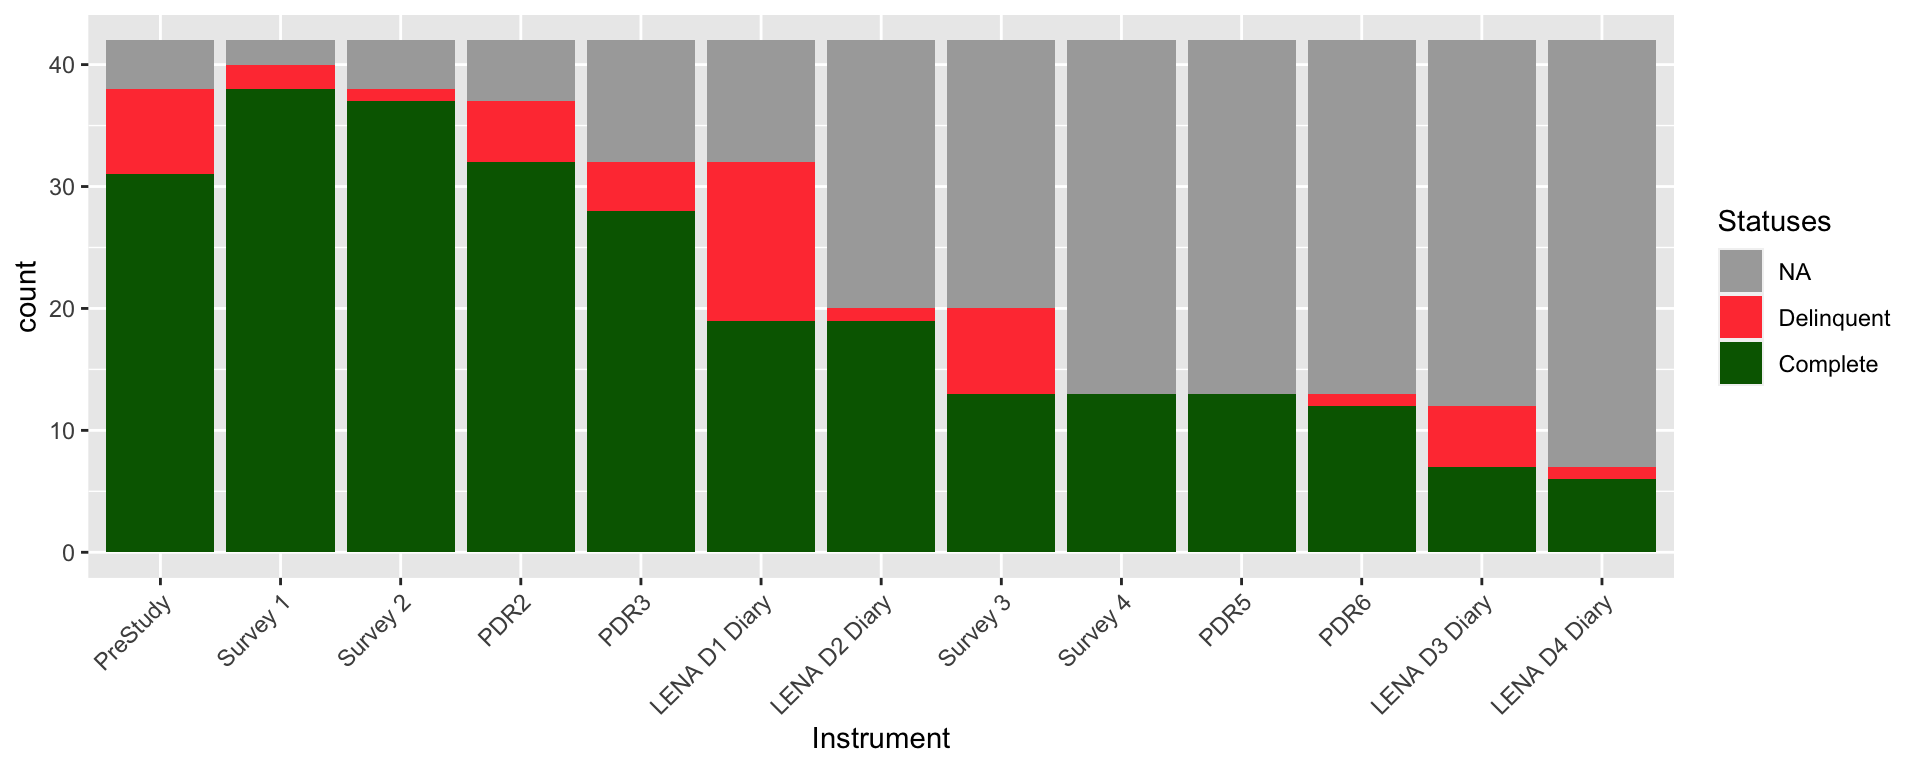
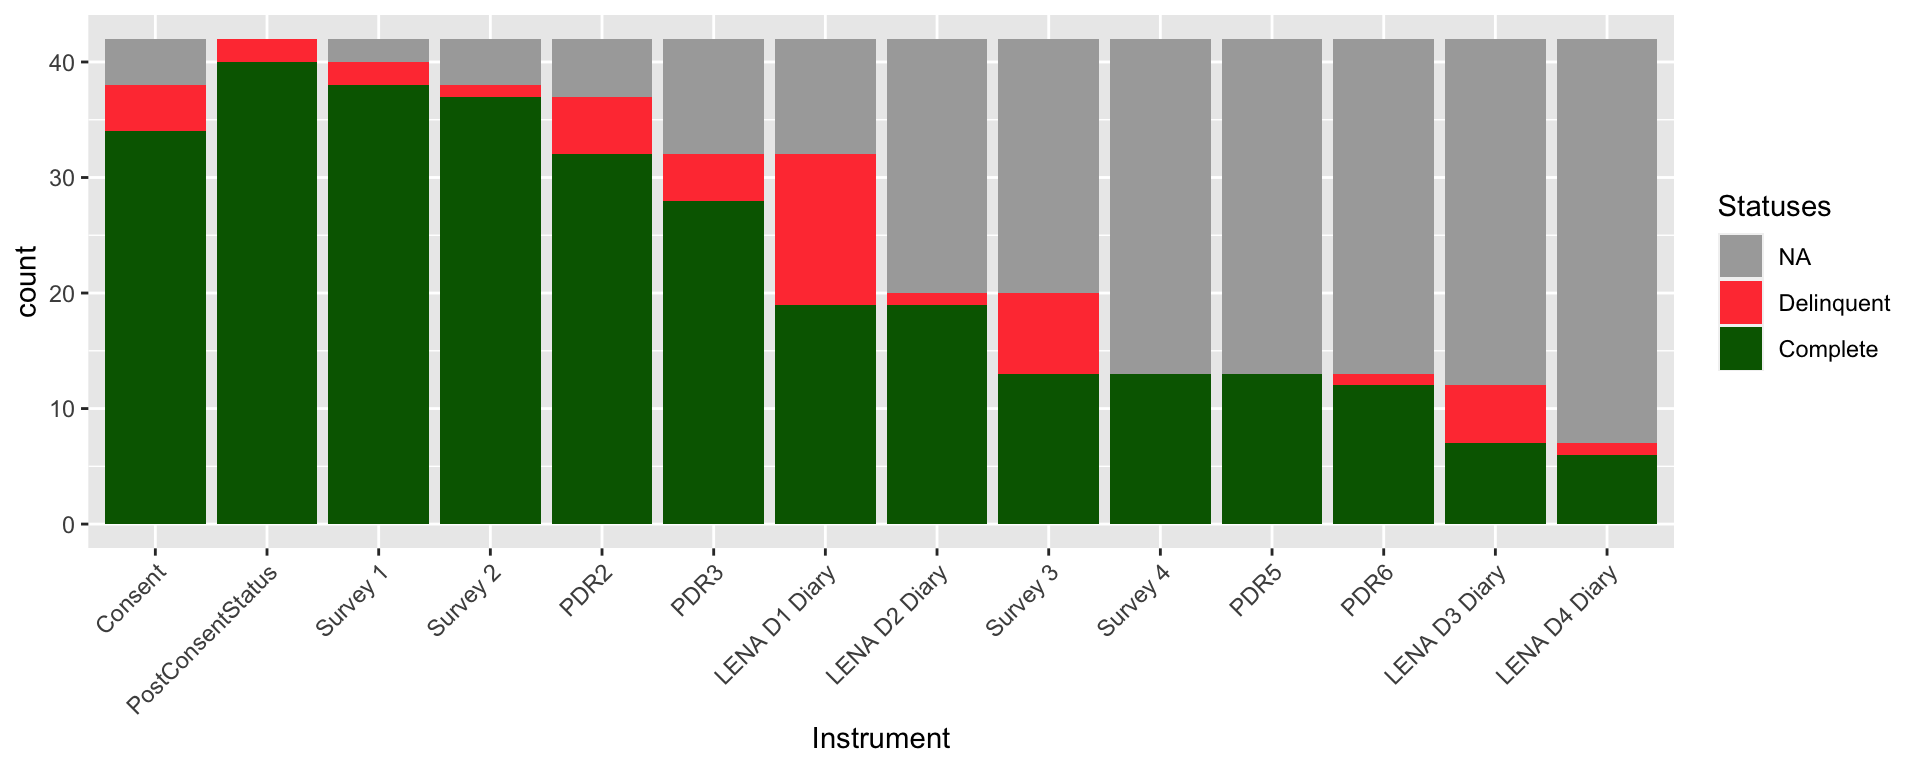
Add post-consent

diff --git a/_site/reports.html b/_site/reports.html
@@ -399,7 +399,7 @@ $(document).ready(function () {
 </div>
 <center>
 <div id="htmlwidget-2e17466358a46d139971" style="width:960px;height:384px;" class="plotly html-widget"></div>
-<script type="application/json" data-for="htmlwidget-2e17466358a46d139971">{"x":{"data":[{"x":[1577836800,1594210295,1595855440,1595947129,1596636699,1597147658,1597158465,1597402867,1597741838,1598436608,1598538979,1598541299,1598955066,1599570320,1600250194,1600255992,1600355481,1600863340,1601302221,1601566658,1602239005,1603368728,1603379955,1603977413,1604491899,1604751373,1605089156,1605170346,1605179257,1605721538,1605872792,1607016682,1607085091,1607472000,1607644800,1607687486,1609891200,1609897301,1611187200,1611187200,1611187200,1609897301,1609891200,1607687486,1607644800,1607472000,1607085091,1607016682,1605872792,1605721538,1605179257,1605170346,1605089156,1604751373,1604491899,1603977413,1603379955,1603368728,1602239005,1601566658,1601302221,1600863340,1600355481,1600255992,1600250194,1599570320,1598955066,1598541299,1598538979,1598436608,1597741838,1597402867,1597158465,1597147658,1596636699,1595947129,1595855440,1594210295,1577836800,1577836800],"y":[0,0,0,0,0,0,0,0,0,0,0,0,0,0,0,0,0,0,0,0,0,0,0,0,0,0,0,0,0,0,0,0,0,0,0,0,0,0,0,0,42,41,40,39,38,37,36,35,34,33,32,31,30,29,28,27,26,25,24,23,22,21,20,19,18,17,16,15,14,13,12,11,10,9,8,7,6,5,4,0],"text":["InformedConsent: 2020-01-01 08:00:00<br />Cumulative:  4","InformedConsent: 2020-07-08 19:11:35<br />Cumulative:  5","InformedConsent: 2020-07-27 20:10:40<br />Cumulative:  6","InformedConsent: 2020-07-28 21:38:49<br />Cumulative:  7","InformedConsent: 2020-08-05 21:11:39<br />Cumulative:  8","InformedConsent: 2020-08-11 19:07:38<br />Cumulative:  9","InformedConsent: 2020-08-11 22:07:45<br />Cumulative: 10","InformedConsent: 2020-08-14 18:01:07<br />Cumulative: 11","InformedConsent: 2020-08-18 16:10:38<br />Cumulative: 12","InformedConsent: 2020-08-26 17:10:08<br />Cumulative: 13","InformedConsent: 2020-08-27 21:36:19<br />Cumulative: 14","InformedConsent: 2020-08-27 22:14:59<br />Cumulative: 15","InformedConsent: 2020-09-01 17:11:06<br />Cumulative: 16","InformedConsent: 2020-09-08 20:05:20<br />Cumulative: 17","InformedConsent: 2020-09-16 16:56:34<br />Cumulative: 18","InformedConsent: 2020-09-16 18:33:12<br />Cumulative: 19","InformedConsent: 2020-09-17 22:11:21<br />Cumulative: 20","InformedConsent: 2020-09-23 19:15:40<br />Cumulative: 21","InformedConsent: 2020-09-28 21:10:21<br />Cumulative: 22","InformedConsent: 2020-10-01 22:37:38<br />Cumulative: 23","InformedConsent: 2020-10-09 17:23:25<br />Cumulative: 24","InformedConsent: 2020-10-22 19:12:08<br />Cumulative: 25","InformedConsent: 2020-10-22 22:19:15<br />Cumulative: 26","InformedConsent: 2020-10-29 20:16:53<br />Cumulative: 27","InformedConsent: 2020-11-04 20:11:39<br />Cumulative: 28","InformedConsent: 2020-11-07 20:16:13<br />Cumulative: 29","InformedConsent: 2020-11-11 18:05:56<br />Cumulative: 30","InformedConsent: 2020-11-12 16:39:06<br />Cumulative: 31","InformedConsent: 2020-11-12 19:07:37<br />Cumulative: 32","InformedConsent: 2020-11-19 01:45:38<br />Cumulative: 33","InformedConsent: 2020-11-20 19:46:32<br />Cumulative: 34","InformedConsent: 2020-12-04 01:31:22<br />Cumulative: 35","InformedConsent: 2020-12-04 20:31:31<br />Cumulative: 36","InformedConsent: 2020-12-09 08:00:00<br />Cumulative: 37","InformedConsent: 2020-12-11 08:00:00<br />Cumulative: 38","InformedConsent: 2020-12-11 19:51:26<br />Cumulative: 39","InformedConsent: 2021-01-06 08:00:00<br />Cumulative: 40","InformedConsent: 2021-01-06 09:41:41<br />Cumulative: 41","InformedConsent: 2021-01-21 08:00:00<br />Cumulative: 42","InformedConsent: 2021-01-21 08:00:00<br />Cumulative: 42","InformedConsent: 2021-01-21 08:00:00<br />Cumulative: 42","InformedConsent: 2021-01-06 09:41:41<br />Cumulative: 41","InformedConsent: 2021-01-06 08:00:00<br />Cumulative: 40","InformedConsent: 2020-12-11 19:51:26<br />Cumulative: 39","InformedConsent: 2020-12-11 08:00:00<br />Cumulative: 38","InformedConsent: 2020-12-09 08:00:00<br />Cumulative: 37","InformedConsent: 2020-12-04 20:31:31<br />Cumulative: 36","InformedConsent: 2020-12-04 01:31:22<br />Cumulative: 35","InformedConsent: 2020-11-20 19:46:32<br />Cumulative: 34","InformedConsent: 2020-11-19 01:45:38<br />Cumulative: 33","InformedConsent: 2020-11-12 19:07:37<br />Cumulative: 32","InformedConsent: 2020-11-12 16:39:06<br />Cumulative: 31","InformedConsent: 2020-11-11 18:05:56<br />Cumulative: 30","InformedConsent: 2020-11-07 20:16:13<br />Cumulative: 29","InformedConsent: 2020-11-04 20:11:39<br />Cumulative: 28","InformedConsent: 2020-10-29 20:16:53<br />Cumulative: 27","InformedConsent: 2020-10-22 22:19:15<br />Cumulative: 26","InformedConsent: 2020-10-22 19:12:08<br />Cumulative: 25","InformedConsent: 2020-10-09 17:23:25<br />Cumulative: 24","InformedConsent: 2020-10-01 22:37:38<br />Cumulative: 23","InformedConsent: 2020-09-28 21:10:21<br />Cumulative: 22","InformedConsent: 2020-09-23 19:15:40<br />Cumulative: 21","InformedConsent: 2020-09-17 22:11:21<br />Cumulative: 20","InformedConsent: 2020-09-16 18:33:12<br />Cumulative: 19","InformedConsent: 2020-09-16 16:56:34<br />Cumulative: 18","InformedConsent: 2020-09-08 20:05:20<br />Cumulative: 17","InformedConsent: 2020-09-01 17:11:06<br />Cumulative: 16","InformedConsent: 2020-08-27 22:14:59<br />Cumulative: 15","InformedConsent: 2020-08-27 21:36:19<br />Cumulative: 14","InformedConsent: 2020-08-26 17:10:08<br />Cumulative: 13","InformedConsent: 2020-08-18 16:10:38<br />Cumulative: 12","InformedConsent: 2020-08-14 18:01:07<br />Cumulative: 11","InformedConsent: 2020-08-11 22:07:45<br />Cumulative: 10","InformedConsent: 2020-08-11 19:07:38<br />Cumulative:  9","InformedConsent: 2020-08-05 21:11:39<br />Cumulative:  8","InformedConsent: 2020-07-28 21:38:49<br />Cumulative:  7","InformedConsent: 2020-07-27 20:10:40<br />Cumulative:  6","InformedConsent: 2020-07-08 19:11:35<br />Cumulative:  5","InformedConsent: 2020-01-01 08:00:00<br />Cumulative:  4","InformedConsent: 2020-01-01 08:00:00<br />Cumulative:  4"],"type":"scatter","mode":"lines","line":{"width":1.88976377952756,"color":"transparent","dash":"solid"},"fill":"toself","fillcolor":"rgba(105,179,162,0.5)","hoveron":"points","showlegend":false,"xaxis":"x","yaxis":"y","hoverinfo":"text","frame":null},{"x":[1577836800,1594210295,1595855440,1595947129,1596636699,1597147658,1597158465,1597402867,1597741838,1598436608,1598538979,1598541299,1598955066,1599570320,1600250194,1600255992,1600355481,1600863340,1601302221,1601566658,1602239005,1603368728,1603379955,1603977413,1604491899,1604751373,1605089156,1605170346,1605179257,1605721538,1605872792,1607016682,1607085091,1607472000,1607644800,1607687486,1609891200,1609897301,1611187200,null],"y":[4,5,6,7,8,9,10,11,12,13,14,15,16,17,18,19,20,21,22,23,24,25,26,27,28,29,30,31,32,33,34,35,36,37,38,39,40,41,42,49],"text":["InformedConsent: 2020-01-01 00:00:00<br />Cumulative:  4","InformedConsent: 2020-07-08 12:11:35<br />Cumulative:  5","InformedConsent: 2020-07-27 13:10:40<br />Cumulative:  6","InformedConsent: 2020-07-28 14:38:49<br />Cumulative:  7","InformedConsent: 2020-08-05 14:11:39<br />Cumulative:  8","InformedConsent: 2020-08-11 12:07:38<br />Cumulative:  9","InformedConsent: 2020-08-11 15:07:45<br />Cumulative: 10","InformedConsent: 2020-08-14 11:01:07<br />Cumulative: 11","InformedConsent: 2020-08-18 09:10:38<br />Cumulative: 12","InformedConsent: 2020-08-26 10:10:08<br />Cumulative: 13","InformedConsent: 2020-08-27 14:36:19<br />Cumulative: 14","InformedConsent: 2020-08-27 15:14:59<br />Cumulative: 15","InformedConsent: 2020-09-01 10:11:06<br />Cumulative: 16","InformedConsent: 2020-09-08 13:05:20<br />Cumulative: 17","InformedConsent: 2020-09-16 09:56:34<br />Cumulative: 18","InformedConsent: 2020-09-16 11:33:12<br />Cumulative: 19","InformedConsent: 2020-09-17 15:11:21<br />Cumulative: 20","InformedConsent: 2020-09-23 12:15:40<br />Cumulative: 21","InformedConsent: 2020-09-28 14:10:21<br />Cumulative: 22","InformedConsent: 2020-10-01 15:37:38<br />Cumulative: 23","InformedConsent: 2020-10-09 10:23:25<br />Cumulative: 24","InformedConsent: 2020-10-22 12:12:08<br />Cumulative: 25","InformedConsent: 2020-10-22 15:19:15<br />Cumulative: 26","InformedConsent: 2020-10-29 13:16:53<br />Cumulative: 27","InformedConsent: 2020-11-04 12:11:39<br />Cumulative: 28","InformedConsent: 2020-11-07 12:16:13<br />Cumulative: 29","InformedConsent: 2020-11-11 10:05:56<br />Cumulative: 30","InformedConsent: 2020-11-12 08:39:06<br />Cumulative: 31","InformedConsent: 2020-11-12 11:07:37<br />Cumulative: 32","InformedConsent: 2020-11-18 17:45:38<br />Cumulative: 33","InformedConsent: 2020-11-20 11:46:32<br />Cumulative: 34","InformedConsent: 2020-12-03 17:31:22<br />Cumulative: 35","InformedConsent: 2020-12-04 12:31:31<br />Cumulative: 36","InformedConsent: 2020-12-09 00:00:00<br />Cumulative: 37","InformedConsent: 2020-12-11 00:00:00<br />Cumulative: 38","InformedConsent: 2020-12-11 11:51:26<br />Cumulative: 39","InformedConsent: 2021-01-06 00:00:00<br />Cumulative: 40","InformedConsent: 2021-01-06 01:41:41<br />Cumulative: 41","InformedConsent: 2021-01-21 00:00:00<br />Cumulative: 42","InformedConsent: NA<br />Cumulative: 49"],"type":"scatter","mode":"lines","line":{"width":1.88976377952756,"color":"rgba(105,179,162,1)","dash":"solid"},"hoveron":"points","showlegend":false,"xaxis":"x","yaxis":"y","hoverinfo":"text","frame":null}],"layout":{"margin":{"t":65.813200498132,"r":39.8505603985056,"b":80.8634288086343,"l":70.9007887090079},"font":{"color":"rgba(0,0,0,1)","family":"Arial Narrow","size":15.2760481527605},"xaxis":{"domain":[0,1],"automargin":true,"type":"linear","autorange":false,"range":[1576169280,1612854720],"tickmode":"array","ticktext":["Jan 2020","Apr 2020","Jul 2020","Oct 2020","Jan 2021"],"tickvals":[1577836800,1585699200,1593561600,1601510400,1609459200],"categoryorder":"array","categoryarray":["Jan 2020","Apr 2020","Jul 2020","Oct 2020","Jan 2021"],"nticks":null,"ticks":"","tickcolor":null,"ticklen":3.81901203819012,"tickwidth":0,"showticklabels":true,"tickfont":{"color":"rgba(77,77,77,1)","family":"Arial Narrow","size":15.2760481527605},"tickangle":-0,"showline":false,"linecolor":null,"linewidth":0,"showgrid":true,"gridcolor":"rgba(204,204,204,1)","gridwidth":0.265670402656704,"zeroline":false,"anchor":"y","title":{"text":"Time","font":{"color":"rgba(0,0,0,1)","family":"Arial Narrow","size":11.9551681195517}},"hoverformat":".2f"},"yaxis":{"domain":[0,1],"automargin":true,"type":"linear","autorange":false,"range":[-2.45,51.45],"tickmode":"array","ticktext":["0","10","20","30","40","50"],"tickvals":[0,10,20,30,40,50],"categoryorder":"array","categoryarray":["0","10","20","30","40","50"],"nticks":null,"ticks":"","tickcolor":null,"ticklen":3.81901203819012,"tickwidth":0,"showticklabels":true,"tickfont":{"color":"rgba(77,77,77,1)","family":"Arial Narrow","size":15.2760481527605},"tickangle":-0,"showline":false,"linecolor":null,"linewidth":0,"showgrid":true,"gridcolor":"rgba(204,204,204,1)","gridwidth":0.265670402656704,"zeroline":false,"anchor":"x","title":{"text":"Dyad Count","font":{"color":"rgba(0,0,0,1)","family":"Arial Narrow","size":11.9551681195517}},"hoverformat":".2f"},"shapes":[{"type":"rect","fillcolor":null,"line":{"color":null,"width":0,"linetype":[]},"yref":"paper","xref":"paper","x0":0,"x1":1,"y0":0,"y1":1}],"showlegend":false,"legend":{"bgcolor":null,"bordercolor":null,"borderwidth":0,"font":{"color":"rgba(0,0,0,1)","family":"Arial Narrow","size":12.2208385222084}},"hovermode":"closest","barmode":"relative"},"config":{"doubleClick":"reset","showSendToCloud":false},"source":"A","attrs":{"44717c71c902":{"x":{},"y":{},"type":"scatter"},"44711243e222":{"x":{},"y":{}}},"cur_data":"44717c71c902","visdat":{"44717c71c902":["function (y) ","x"],"44711243e222":["function (y) ","x"]},"highlight":{"on":"plotly_click","persistent":false,"dynamic":false,"selectize":false,"opacityDim":0.2,"selected":{"opacity":1},"debounce":0},"shinyEvents":["plotly_hover","plotly_click","plotly_selected","plotly_relayout","plotly_brushed","plotly_brushing","plotly_clickannotation","plotly_doubleclick","plotly_deselect","plotly_afterplot","plotly_sunburstclick"],"base_url":"https://plot.ly"},"evals":[],"jsHooks":[]}</script><img src="reports_files/figure-html/SEAL%20Conditions%20Plot-2.png" width="960" />
+<script type="application/json" data-for="htmlwidget-2e17466358a46d139971">{"x":{"data":[{"x":[1577836800,1594210295,1595855440,1595947129,1596636699,1597147658,1597158465,1597402867,1597741838,1598436608,1598538979,1598541299,1598955066,1599570320,1600250194,1600255992,1600355481,1600863340,1601302221,1601566658,1602239005,1603368728,1603379955,1603977413,1604491899,1604751373,1605089156,1605170346,1605179257,1605721538,1605872792,1607016682,1607085091,1607472000,1607644800,1607687486,1609891200,1609897301,1611187200,1611187200,1611187200,1609897301,1609891200,1607687486,1607644800,1607472000,1607085091,1607016682,1605872792,1605721538,1605179257,1605170346,1605089156,1604751373,1604491899,1603977413,1603379955,1603368728,1602239005,1601566658,1601302221,1600863340,1600355481,1600255992,1600250194,1599570320,1598955066,1598541299,1598538979,1598436608,1597741838,1597402867,1597158465,1597147658,1596636699,1595947129,1595855440,1594210295,1577836800,1577836800],"y":[0,0,0,0,0,0,0,0,0,0,0,0,0,0,0,0,0,0,0,0,0,0,0,0,0,0,0,0,0,0,0,0,0,0,0,0,0,0,0,0,42,41,40,39,38,37,36,35,34,33,32,31,30,29,28,27,26,25,24,23,22,21,20,19,18,17,16,15,14,13,12,11,10,9,8,7,6,5,4,0],"text":["InformedConsent: 2020-01-01 08:00:00<br />Cumulative:  4","InformedConsent: 2020-07-08 19:11:35<br />Cumulative:  5","InformedConsent: 2020-07-27 20:10:40<br />Cumulative:  6","InformedConsent: 2020-07-28 21:38:49<br />Cumulative:  7","InformedConsent: 2020-08-05 21:11:39<br />Cumulative:  8","InformedConsent: 2020-08-11 19:07:38<br />Cumulative:  9","InformedConsent: 2020-08-11 22:07:45<br />Cumulative: 10","InformedConsent: 2020-08-14 18:01:07<br />Cumulative: 11","InformedConsent: 2020-08-18 16:10:38<br />Cumulative: 12","InformedConsent: 2020-08-26 17:10:08<br />Cumulative: 13","InformedConsent: 2020-08-27 21:36:19<br />Cumulative: 14","InformedConsent: 2020-08-27 22:14:59<br />Cumulative: 15","InformedConsent: 2020-09-01 17:11:06<br />Cumulative: 16","InformedConsent: 2020-09-08 20:05:20<br />Cumulative: 17","InformedConsent: 2020-09-16 16:56:34<br />Cumulative: 18","InformedConsent: 2020-09-16 18:33:12<br />Cumulative: 19","InformedConsent: 2020-09-17 22:11:21<br />Cumulative: 20","InformedConsent: 2020-09-23 19:15:40<br />Cumulative: 21","InformedConsent: 2020-09-28 21:10:21<br />Cumulative: 22","InformedConsent: 2020-10-01 22:37:38<br />Cumulative: 23","InformedConsent: 2020-10-09 17:23:25<br />Cumulative: 24","InformedConsent: 2020-10-22 19:12:08<br />Cumulative: 25","InformedConsent: 2020-10-22 22:19:15<br />Cumulative: 26","InformedConsent: 2020-10-29 20:16:53<br />Cumulative: 27","InformedConsent: 2020-11-04 20:11:39<br />Cumulative: 28","InformedConsent: 2020-11-07 20:16:13<br />Cumulative: 29","InformedConsent: 2020-11-11 18:05:56<br />Cumulative: 30","InformedConsent: 2020-11-12 16:39:06<br />Cumulative: 31","InformedConsent: 2020-11-12 19:07:37<br />Cumulative: 32","InformedConsent: 2020-11-19 01:45:38<br />Cumulative: 33","InformedConsent: 2020-11-20 19:46:32<br />Cumulative: 34","InformedConsent: 2020-12-04 01:31:22<br />Cumulative: 35","InformedConsent: 2020-12-04 20:31:31<br />Cumulative: 36","InformedConsent: 2020-12-09 08:00:00<br />Cumulative: 37","InformedConsent: 2020-12-11 08:00:00<br />Cumulative: 38","InformedConsent: 2020-12-11 19:51:26<br />Cumulative: 39","InformedConsent: 2021-01-06 08:00:00<br />Cumulative: 40","InformedConsent: 2021-01-06 09:41:41<br />Cumulative: 41","InformedConsent: 2021-01-21 08:00:00<br />Cumulative: 42","InformedConsent: 2021-01-21 08:00:00<br />Cumulative: 42","InformedConsent: 2021-01-21 08:00:00<br />Cumulative: 42","InformedConsent: 2021-01-06 09:41:41<br />Cumulative: 41","InformedConsent: 2021-01-06 08:00:00<br />Cumulative: 40","InformedConsent: 2020-12-11 19:51:26<br />Cumulative: 39","InformedConsent: 2020-12-11 08:00:00<br />Cumulative: 38","InformedConsent: 2020-12-09 08:00:00<br />Cumulative: 37","InformedConsent: 2020-12-04 20:31:31<br />Cumulative: 36","InformedConsent: 2020-12-04 01:31:22<br />Cumulative: 35","InformedConsent: 2020-11-20 19:46:32<br />Cumulative: 34","InformedConsent: 2020-11-19 01:45:38<br />Cumulative: 33","InformedConsent: 2020-11-12 19:07:37<br />Cumulative: 32","InformedConsent: 2020-11-12 16:39:06<br />Cumulative: 31","InformedConsent: 2020-11-11 18:05:56<br />Cumulative: 30","InformedConsent: 2020-11-07 20:16:13<br />Cumulative: 29","InformedConsent: 2020-11-04 20:11:39<br />Cumulative: 28","InformedConsent: 2020-10-29 20:16:53<br />Cumulative: 27","InformedConsent: 2020-10-22 22:19:15<br />Cumulative: 26","InformedConsent: 2020-10-22 19:12:08<br />Cumulative: 25","InformedConsent: 2020-10-09 17:23:25<br />Cumulative: 24","InformedConsent: 2020-10-01 22:37:38<br />Cumulative: 23","InformedConsent: 2020-09-28 21:10:21<br />Cumulative: 22","InformedConsent: 2020-09-23 19:15:40<br />Cumulative: 21","InformedConsent: 2020-09-17 22:11:21<br />Cumulative: 20","InformedConsent: 2020-09-16 18:33:12<br />Cumulative: 19","InformedConsent: 2020-09-16 16:56:34<br />Cumulative: 18","InformedConsent: 2020-09-08 20:05:20<br />Cumulative: 17","InformedConsent: 2020-09-01 17:11:06<br />Cumulative: 16","InformedConsent: 2020-08-27 22:14:59<br />Cumulative: 15","InformedConsent: 2020-08-27 21:36:19<br />Cumulative: 14","InformedConsent: 2020-08-26 17:10:08<br />Cumulative: 13","InformedConsent: 2020-08-18 16:10:38<br />Cumulative: 12","InformedConsent: 2020-08-14 18:01:07<br />Cumulative: 11","InformedConsent: 2020-08-11 22:07:45<br />Cumulative: 10","InformedConsent: 2020-08-11 19:07:38<br />Cumulative:  9","InformedConsent: 2020-08-05 21:11:39<br />Cumulative:  8","InformedConsent: 2020-07-28 21:38:49<br />Cumulative:  7","InformedConsent: 2020-07-27 20:10:40<br />Cumulative:  6","InformedConsent: 2020-07-08 19:11:35<br />Cumulative:  5","InformedConsent: 2020-01-01 08:00:00<br />Cumulative:  4","InformedConsent: 2020-01-01 08:00:00<br />Cumulative:  4"],"type":"scatter","mode":"lines","line":{"width":1.88976377952756,"color":"transparent","dash":"solid"},"fill":"toself","fillcolor":"rgba(105,179,162,0.5)","hoveron":"points","showlegend":false,"xaxis":"x","yaxis":"y","hoverinfo":"text","frame":null},{"x":[1577836800,1594210295,1595855440,1595947129,1596636699,1597147658,1597158465,1597402867,1597741838,1598436608,1598538979,1598541299,1598955066,1599570320,1600250194,1600255992,1600355481,1600863340,1601302221,1601566658,1602239005,1603368728,1603379955,1603977413,1604491899,1604751373,1605089156,1605170346,1605179257,1605721538,1605872792,1607016682,1607085091,1607472000,1607644800,1607687486,1609891200,1609897301,1611187200,null],"y":[4,5,6,7,8,9,10,11,12,13,14,15,16,17,18,19,20,21,22,23,24,25,26,27,28,29,30,31,32,33,34,35,36,37,38,39,40,41,42,49],"text":["InformedConsent: 2020-01-01 00:00:00<br />Cumulative:  4","InformedConsent: 2020-07-08 12:11:35<br />Cumulative:  5","InformedConsent: 2020-07-27 13:10:40<br />Cumulative:  6","InformedConsent: 2020-07-28 14:38:49<br />Cumulative:  7","InformedConsent: 2020-08-05 14:11:39<br />Cumulative:  8","InformedConsent: 2020-08-11 12:07:38<br />Cumulative:  9","InformedConsent: 2020-08-11 15:07:45<br />Cumulative: 10","InformedConsent: 2020-08-14 11:01:07<br />Cumulative: 11","InformedConsent: 2020-08-18 09:10:38<br />Cumulative: 12","InformedConsent: 2020-08-26 10:10:08<br />Cumulative: 13","InformedConsent: 2020-08-27 14:36:19<br />Cumulative: 14","InformedConsent: 2020-08-27 15:14:59<br />Cumulative: 15","InformedConsent: 2020-09-01 10:11:06<br />Cumulative: 16","InformedConsent: 2020-09-08 13:05:20<br />Cumulative: 17","InformedConsent: 2020-09-16 09:56:34<br />Cumulative: 18","InformedConsent: 2020-09-16 11:33:12<br />Cumulative: 19","InformedConsent: 2020-09-17 15:11:21<br />Cumulative: 20","InformedConsent: 2020-09-23 12:15:40<br />Cumulative: 21","InformedConsent: 2020-09-28 14:10:21<br />Cumulative: 22","InformedConsent: 2020-10-01 15:37:38<br />Cumulative: 23","InformedConsent: 2020-10-09 10:23:25<br />Cumulative: 24","InformedConsent: 2020-10-22 12:12:08<br />Cumulative: 25","InformedConsent: 2020-10-22 15:19:15<br />Cumulative: 26","InformedConsent: 2020-10-29 13:16:53<br />Cumulative: 27","InformedConsent: 2020-11-04 12:11:39<br />Cumulative: 28","InformedConsent: 2020-11-07 12:16:13<br />Cumulative: 29","InformedConsent: 2020-11-11 10:05:56<br />Cumulative: 30","InformedConsent: 2020-11-12 08:39:06<br />Cumulative: 31","InformedConsent: 2020-11-12 11:07:37<br />Cumulative: 32","InformedConsent: 2020-11-18 17:45:38<br />Cumulative: 33","InformedConsent: 2020-11-20 11:46:32<br />Cumulative: 34","InformedConsent: 2020-12-03 17:31:22<br />Cumulative: 35","InformedConsent: 2020-12-04 12:31:31<br />Cumulative: 36","InformedConsent: 2020-12-09 00:00:00<br />Cumulative: 37","InformedConsent: 2020-12-11 00:00:00<br />Cumulative: 38","InformedConsent: 2020-12-11 11:51:26<br />Cumulative: 39","InformedConsent: 2021-01-06 00:00:00<br />Cumulative: 40","InformedConsent: 2021-01-06 01:41:41<br />Cumulative: 41","InformedConsent: 2021-01-21 00:00:00<br />Cumulative: 42","InformedConsent: NA<br />Cumulative: 49"],"type":"scatter","mode":"lines","line":{"width":1.88976377952756,"color":"rgba(105,179,162,1)","dash":"solid"},"hoveron":"points","showlegend":false,"xaxis":"x","yaxis":"y","hoverinfo":"text","frame":null}],"layout":{"margin":{"t":65.813200498132,"r":39.8505603985056,"b":80.8634288086343,"l":70.9007887090079},"font":{"color":"rgba(0,0,0,1)","family":"Arial Narrow","size":15.2760481527605},"xaxis":{"domain":[0,1],"automargin":true,"type":"linear","autorange":false,"range":[1576169280,1612854720],"tickmode":"array","ticktext":["Jan 2020","Apr 2020","Jul 2020","Oct 2020","Jan 2021"],"tickvals":[1577836800,1585699200,1593561600,1601510400,1609459200],"categoryorder":"array","categoryarray":["Jan 2020","Apr 2020","Jul 2020","Oct 2020","Jan 2021"],"nticks":null,"ticks":"","tickcolor":null,"ticklen":3.81901203819012,"tickwidth":0,"showticklabels":true,"tickfont":{"color":"rgba(77,77,77,1)","family":"Arial Narrow","size":15.2760481527605},"tickangle":-0,"showline":false,"linecolor":null,"linewidth":0,"showgrid":true,"gridcolor":"rgba(204,204,204,1)","gridwidth":0.265670402656704,"zeroline":false,"anchor":"y","title":{"text":"Time","font":{"color":"rgba(0,0,0,1)","family":"Arial Narrow","size":11.9551681195517}},"hoverformat":".2f"},"yaxis":{"domain":[0,1],"automargin":true,"type":"linear","autorange":false,"range":[-2.45,51.45],"tickmode":"array","ticktext":["0","10","20","30","40","50"],"tickvals":[0,10,20,30,40,50],"categoryorder":"array","categoryarray":["0","10","20","30","40","50"],"nticks":null,"ticks":"","tickcolor":null,"ticklen":3.81901203819012,"tickwidth":0,"showticklabels":true,"tickfont":{"color":"rgba(77,77,77,1)","family":"Arial Narrow","size":15.2760481527605},"tickangle":-0,"showline":false,"linecolor":null,"linewidth":0,"showgrid":true,"gridcolor":"rgba(204,204,204,1)","gridwidth":0.265670402656704,"zeroline":false,"anchor":"x","title":{"text":"Dyad Count","font":{"color":"rgba(0,0,0,1)","family":"Arial Narrow","size":11.9551681195517}},"hoverformat":".2f"},"shapes":[{"type":"rect","fillcolor":null,"line":{"color":null,"width":0,"linetype":[]},"yref":"paper","xref":"paper","x0":0,"x1":1,"y0":0,"y1":1}],"showlegend":false,"legend":{"bgcolor":null,"bordercolor":null,"borderwidth":0,"font":{"color":"rgba(0,0,0,1)","family":"Arial Narrow","size":12.2208385222084}},"hovermode":"closest","barmode":"relative"},"config":{"doubleClick":"reset","showSendToCloud":false},"source":"A","attrs":{"511f295425dc":{"x":{},"y":{},"type":"scatter"},"511f5381a3b6":{"x":{},"y":{}}},"cur_data":"511f295425dc","visdat":{"511f295425dc":["function (y) ","x"],"511f5381a3b6":["function (y) ","x"]},"highlight":{"on":"plotly_click","persistent":false,"dynamic":false,"selectize":false,"opacityDim":0.2,"selected":{"opacity":1},"debounce":0},"shinyEvents":["plotly_hover","plotly_click","plotly_selected","plotly_relayout","plotly_brushed","plotly_brushing","plotly_clickannotation","plotly_doubleclick","plotly_deselect","plotly_afterplot","plotly_sunburstclick"],"base_url":"https://plot.ly"},"evals":[],"jsHooks":[]}</script><img src="reports_files/figure-html/SEAL%20Conditions%20Plot-2.png" width="960" />
 <center>
 <div>
 

diff --git a/_site/enrollment.html b/_site/enrollment.html
@@ -1077,16 +1077,30 @@ NA
 <tbody>
 <tr>
 <td style="text-align:left;">
-PreStudy
+Consent
 </td>
 <td style="text-align:right;">
-31
-</td>
-<td style="text-align:right;">
-7
+34
 </td>
 <td style="text-align:right;">
 4
+</td>
+<td style="text-align:right;">
+4
+</td>
+</tr>
+<tr>
+<td style="text-align:left;">
+Post Consent
+</td>
+<td style="text-align:right;">
+40
+</td>
+<td style="text-align:right;">
+2
+</td>
+<td style="text-align:right;">
+0
 </td>
 </tr>
 <tr>
